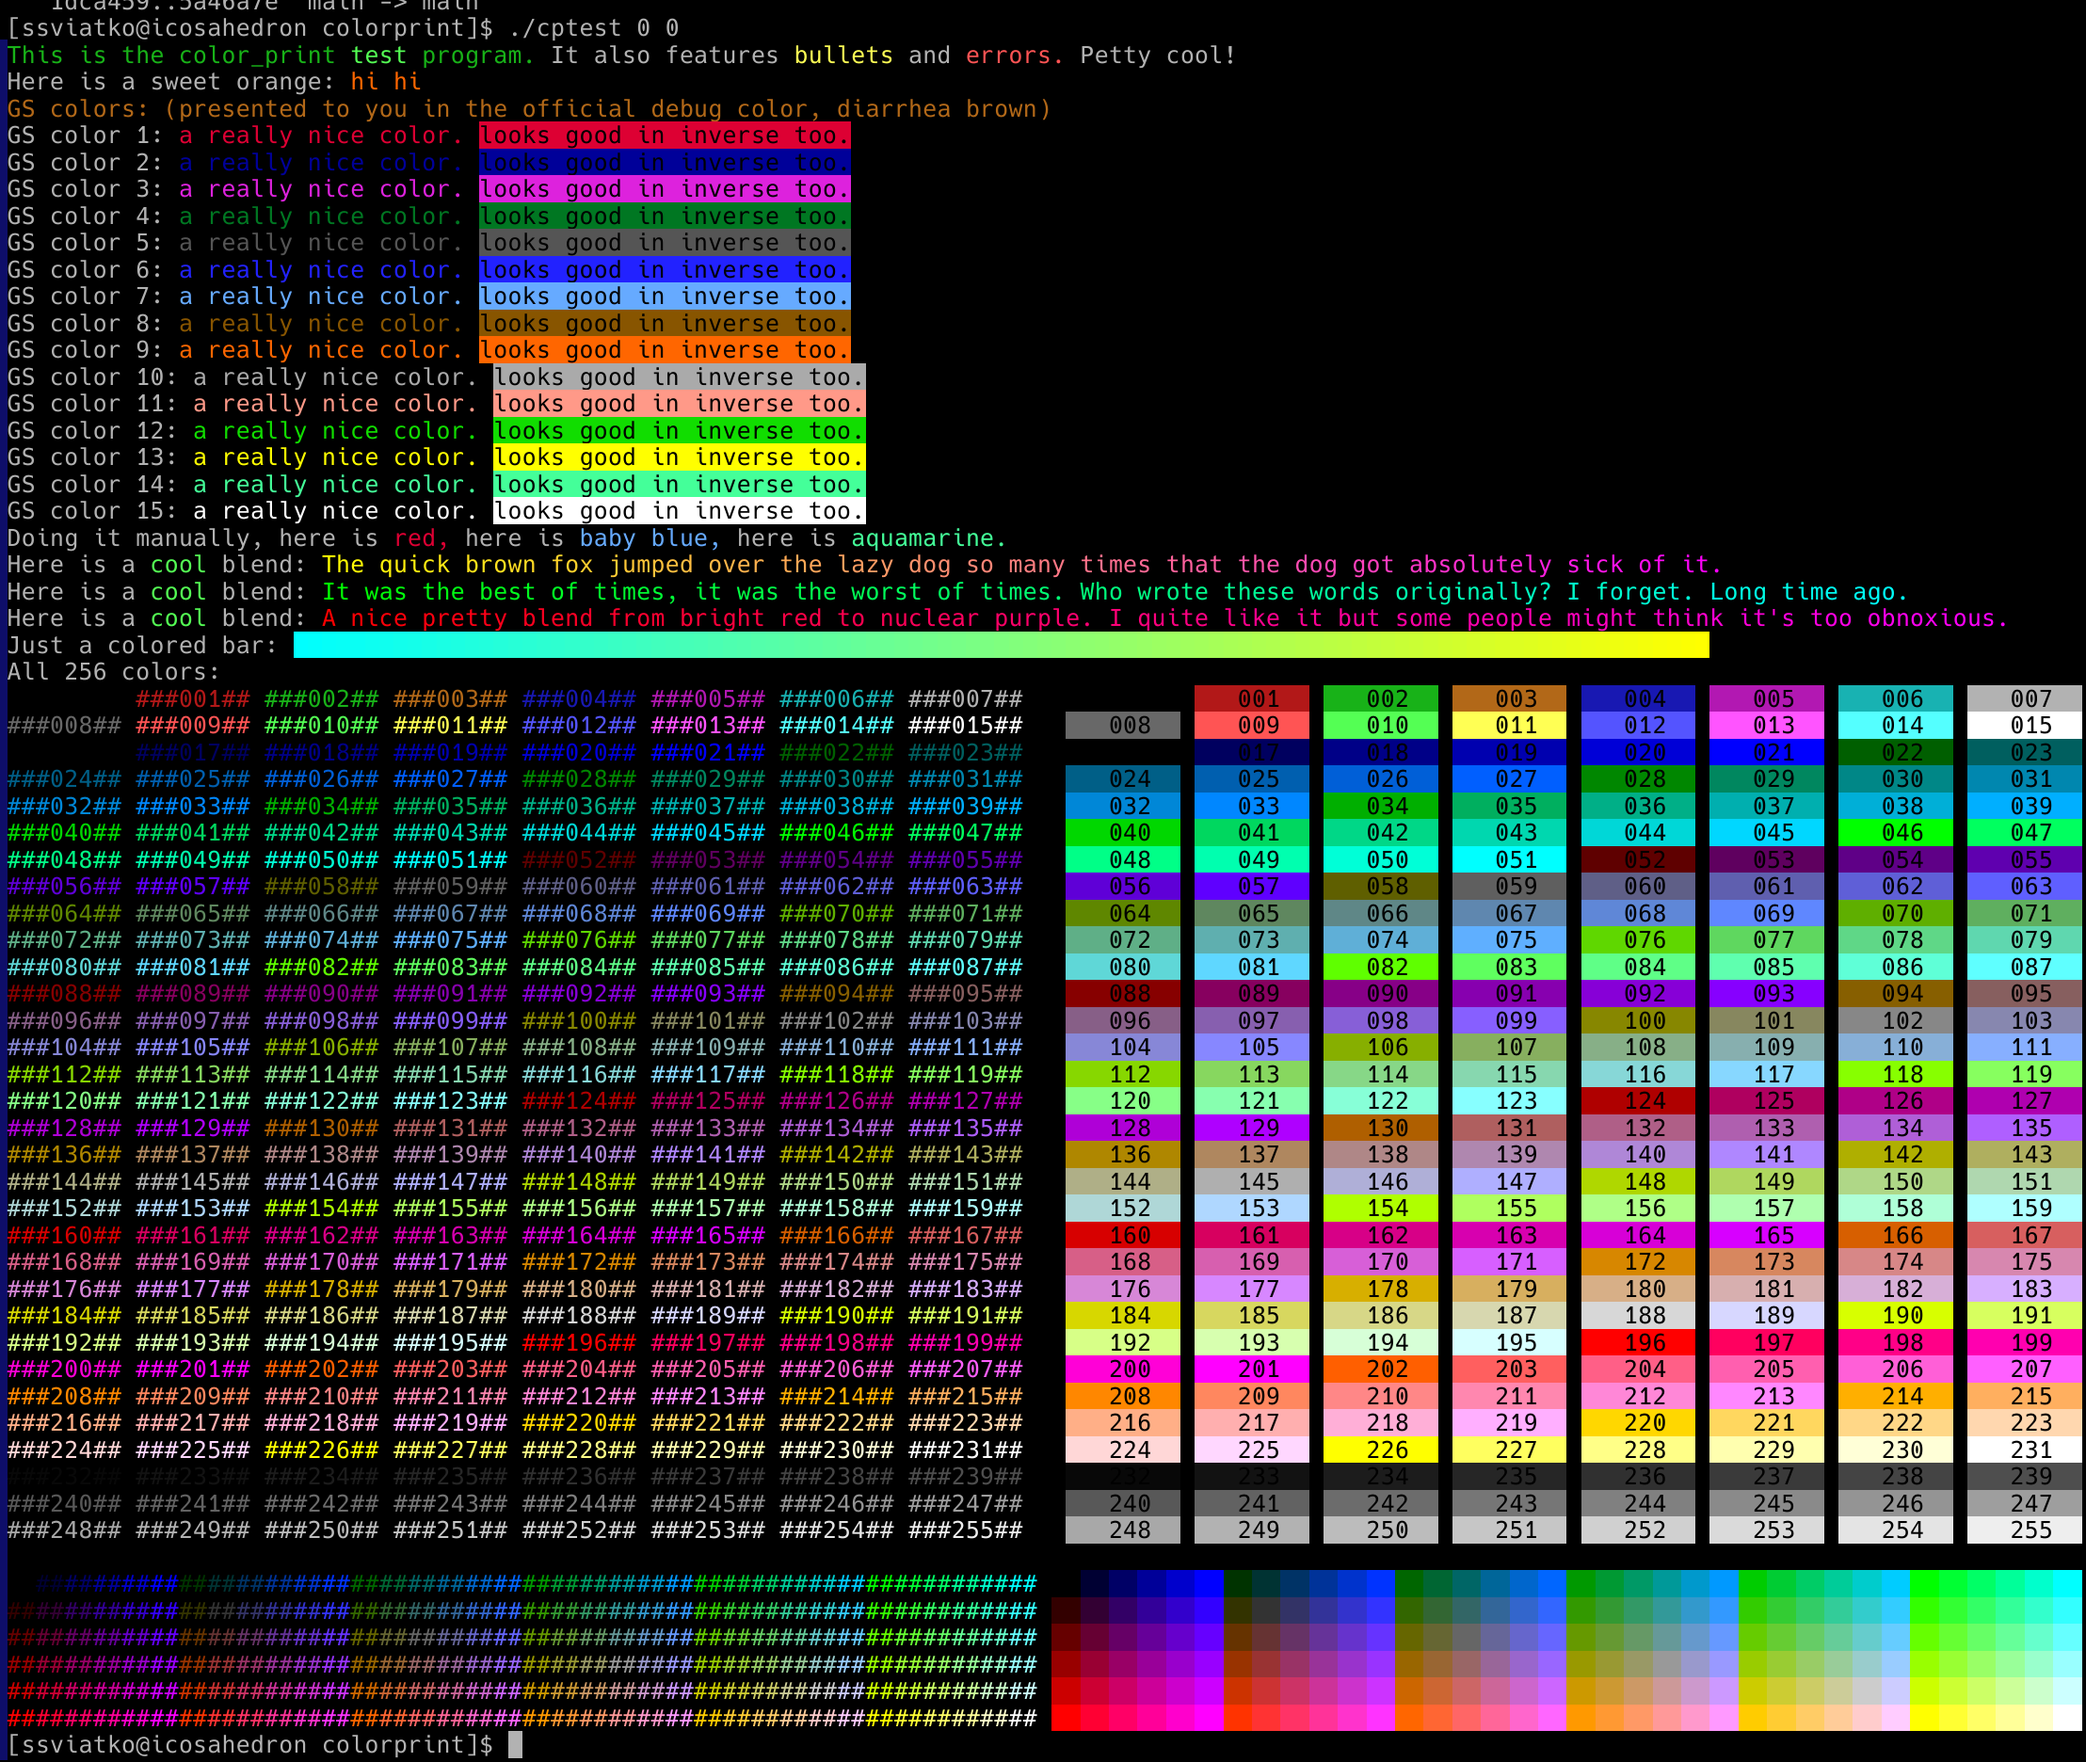
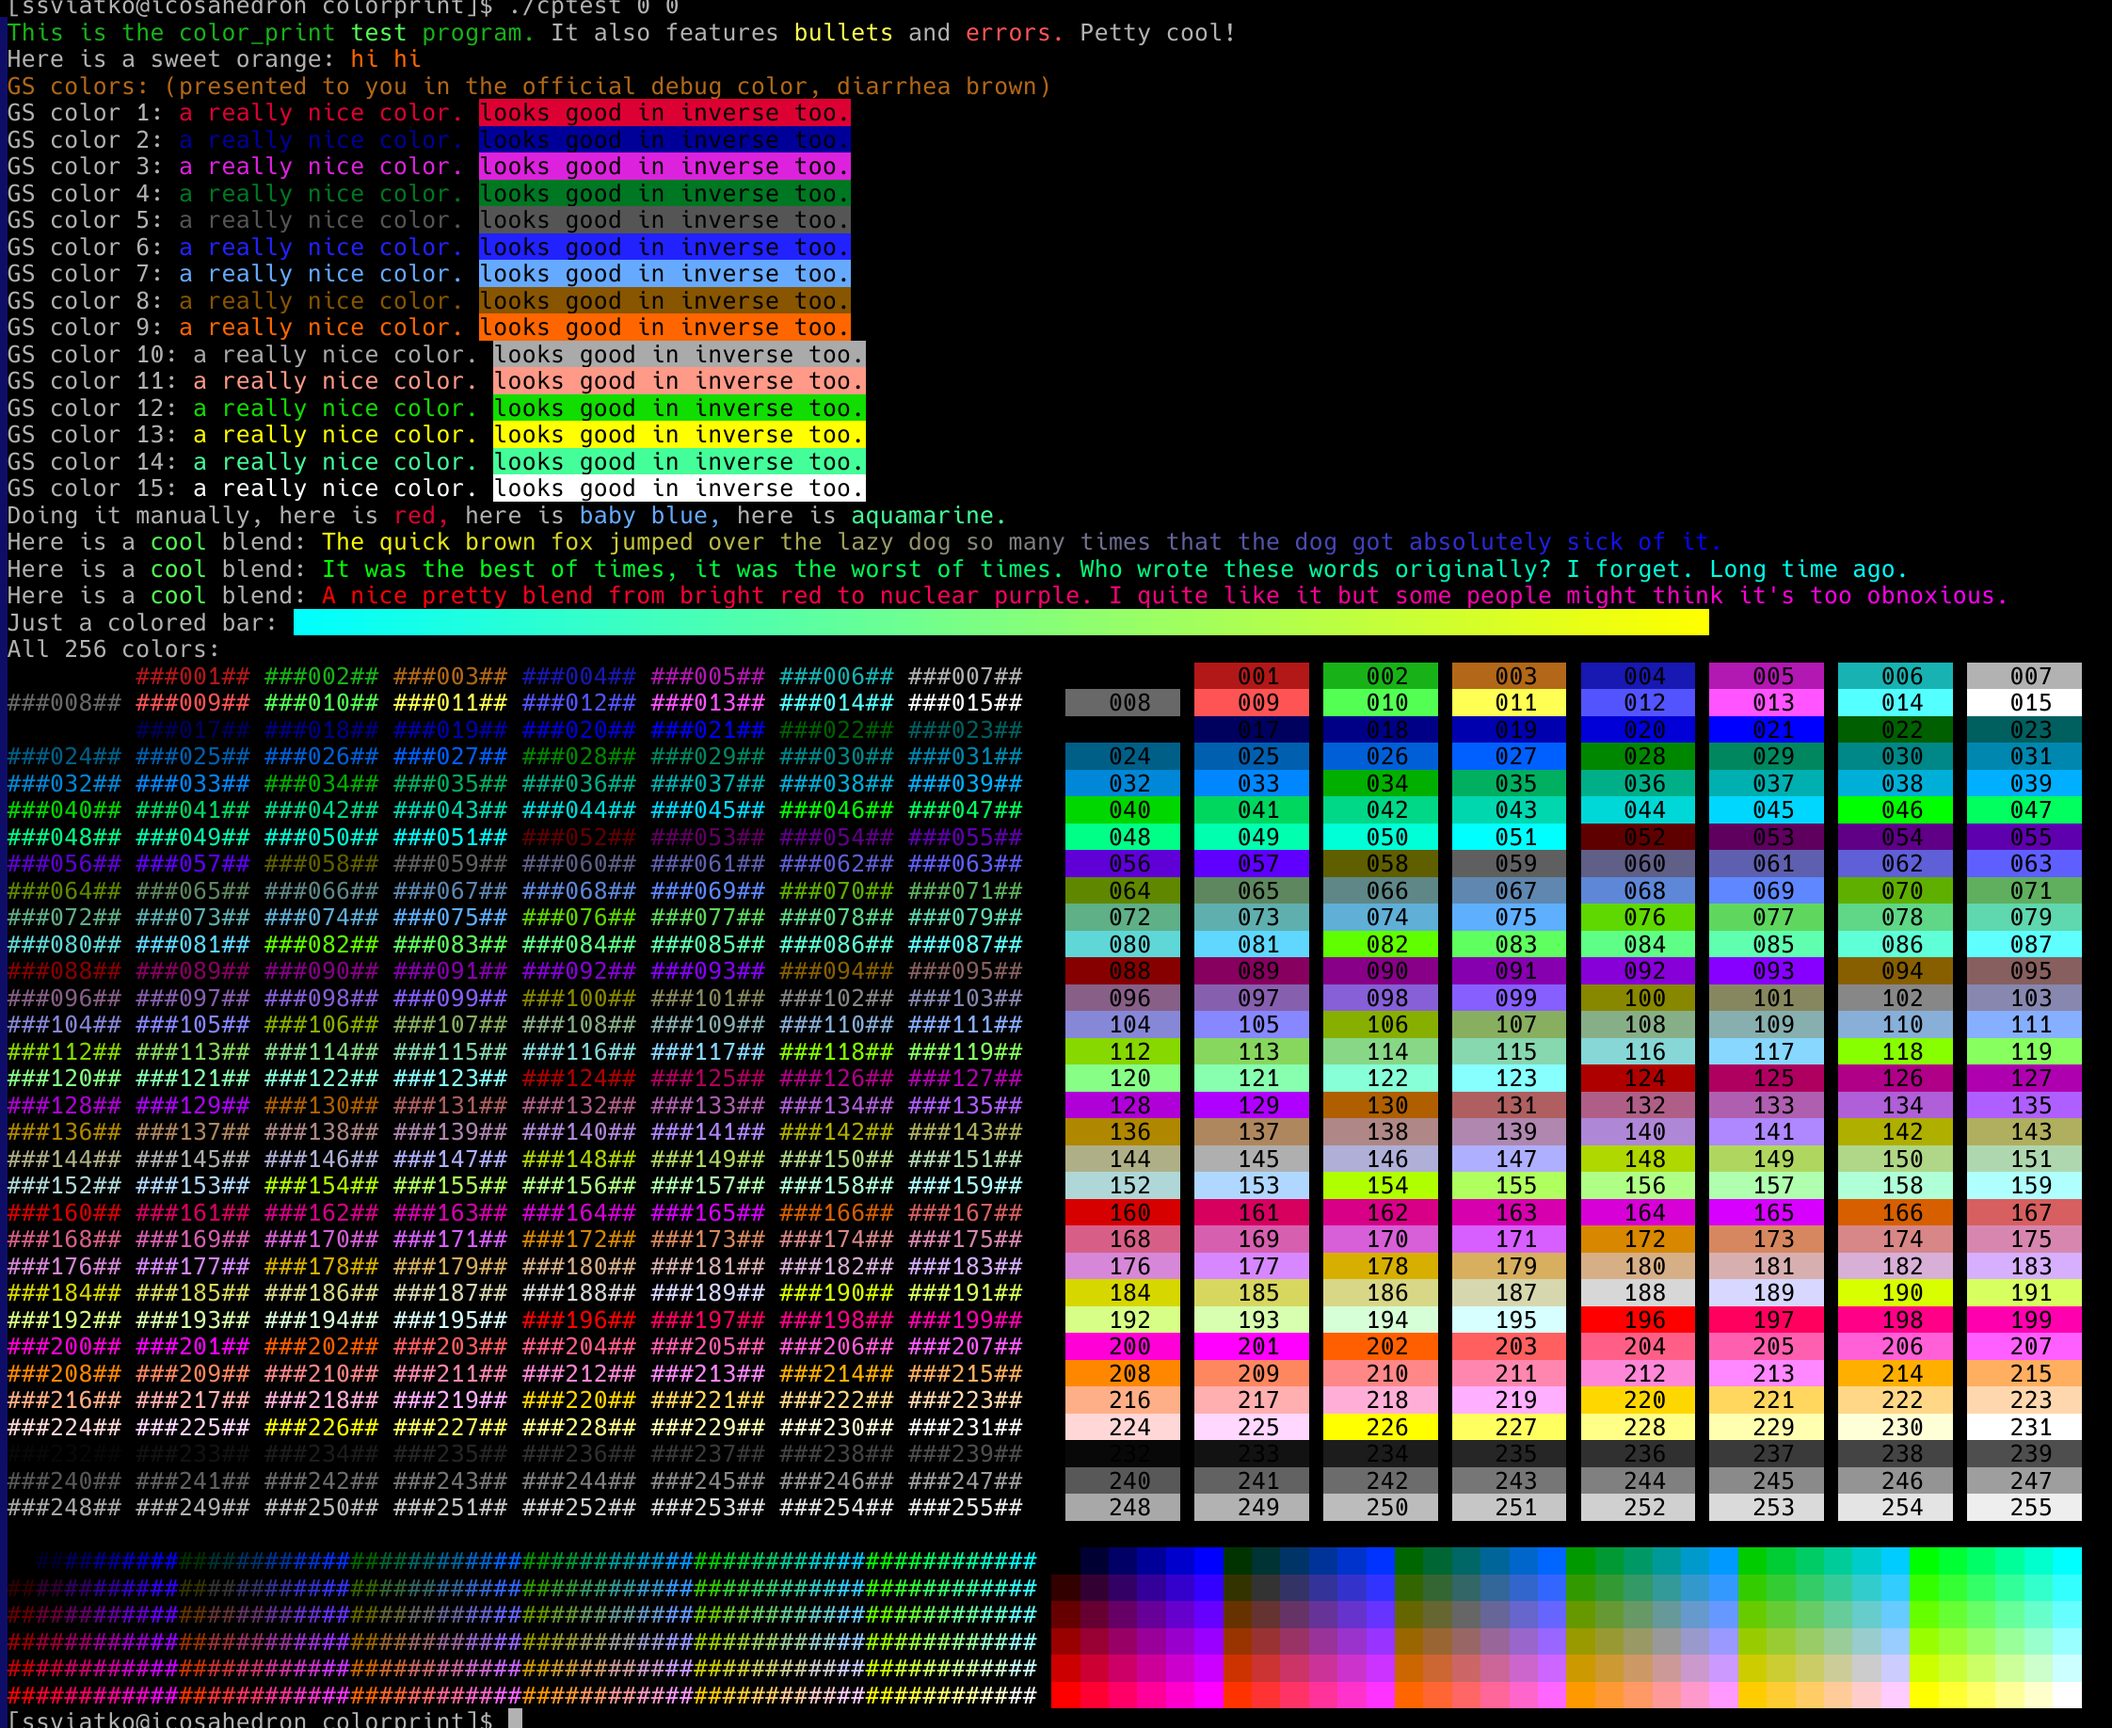
get rid of fmtbld

diff --git a/main.c b/main.c
@@ -19,21 +19,21 @@ int main(int argc, char **argv)
 	color_printf("Here is a sweet orange: *c[9]hi hi*d\n");
 	color_debug("GS colors: (presented to you in the official debug color, diarrhea brown)\n");
 	for (int i = 1; i <= 15; ++i) {
-		color_printf(fmtbld("GS color %d: *c[%d]a really nice color. *d*c[0]*g[%d]looks good in inverse too.*d\n", i, i, i));
+		color_printf("GS color %d: *c[%d]a really nice color. *d*c[0]*g[%d]looks good in inverse too.*d\n", i, i, i);
 	}
 	color_printf("*dDoing it manually, here is *c[1]red,*d here is *c[7]baby blue,*d here is *c[14]aquamarine.*d\n");
-	color_printf("Here is a *hcool*d blend: %s\n", color_rgb_blend("The quick brown fox jumped over the lazy dog so many times that the dog got absolutely sick of it.", 255, 255, 0, 255, 0, 255, 0));
+	color_printf("Here is a *hcool*d blend: %s\n", color_rgb_blend("The quick brown fox jumped over the lazy dog so many times that the dog got absolutely sick of it.", 255, 255, 0, 0, 0, 255, 0));
 	color_printf("Here is a *hcool*d blend: %s\n", color_rgb_blend("It was the best of times, it was the worst of times. Who wrote these words originally? I forget. Long time ago.", 0, 255, 0, 0, 255, 255, 0));
 	color_printf("Here is a *hcool*d blend: %s\n", color_rgb_blend("A nice pretty blend from bright red to nuclear purple. I quite like it but some people might think it's too obnoxious.", 255, 0, 0, 255, 0, 255, 0));
 	color_printf("Just a colored bar: %s\n", color_rgb_blend("                                                                                                   ", 0, 255, 255, 255, 255, 0, 1));
 	color_printf("All 256 colors:\n");
 	for (int i = 0; i < 32; ++i) {
 		for (int j = 0; j < 8; ++j) {
-			color_printf(fmtbld("*2[%d]###%03d##*d ", (i * 8) + j, (i * 8) + j));
+			color_printf("*2[%d]###%03d##*d ", (i * 8) + j, (i * 8) + j);
 		}
 		printf("  ");
 		for (int j = 0; j < 8; ++j) {
-			color_printf(fmtbld("*2[0]*3[%d]   %03d  *d ", (i * 8) + j, (i * 8) + j));
+			color_printf("*2[0]*3[%d]   %03d  *d ", (i * 8) + j, (i * 8) + j);
 		}
 		printf("\n");
 	}
@@ -41,13 +41,13 @@ int main(int argc, char **argv)
 	for (unsigned int r = 0; r <= 0xff; r += 51) {
 		for (unsigned int g = 0; g <= 0xff; g += 51) {
 			for (unsigned int b = 0; b <= 0xff; b += 51) {
-				color_printf(fmtbld("*5[%d,%d,%d]##*d", r, g, b));
+				color_printf("*5[%d,%d,%d]##*d", r, g, b);
 			}
 		}
 		printf(" ");
 		for (unsigned int g = 0; g <= 0xff; g += 51) {
 			for (unsigned int b = 0; b <= 0xff; b += 51) {
-				color_printf(fmtbld("*6[%d,%d,%d]  *d", r, g, b));
+				color_printf("*6[%d,%d,%d]  *d", r, g, b);
 			}
 		}
 		printf("\n");

diff --git a/color_print.c b/color_print.c
@@ -242,27 +242,20 @@ char *color_256_bg(unsigned int a_color)
     return g_output;
 }
 
-char *fmtbld(const char *template_format, ...)
-{
-    g_output[0] = 0;
-    va_list args;
-    va_start(args, template_format);
-    vsprintf(g_output, template_format, args);
-    va_end(args);
-    return g_output;
-}
-
 void color_printf(const char *format, ...)
 {
-    char original_format[BUFFLEN];
-    char edited_format[BUFFLEN];
+    char original_format[BUFFLEN * 8];
+    char edited_format[BUFFLEN * 8];
     char c;
     size_t i = 0, j = 0;
     enum { COLLECT, FINDSTAR, PAREN_OPEN, PAREN_VALUE, PAREN_OPTION } state = COLLECT;
 
     // cache format string
     original_format[0] = 0;
-    strcpy(original_format, format);
+    va_list args;
+    va_start(args);
+    vsprintf(original_format, format, args);
+    va_end(args);
 
     while (i < strlen(original_format)) {
         c = original_format[i];
@@ -445,11 +438,7 @@ void color_printf(const char *format, ...)
         }
     }
     edited_format[j] = 0;
-
-    va_list args;
-    va_start(args);
-    vprintf(edited_format, args);
-    va_end(args);
+    printf(edited_format);
 }
 
 void color_err_printf(int a_strerror, const char *format, ...)

diff --git a/color_print.h b/color_print.h
@@ -106,7 +106,6 @@ char *color_rgb_bg      (uint8_t a_red, uint8_t a_green, uint8_t a_blue);
 char *color_rgb_blend   (const char *a_str, uint8_t a_begin_red, uint8_t a_begin_green, uint8_t a_begin_blue, uint8_t a_end_red, uint8_t a_end_green, uint8_t a_end_blue, int a_background);
 char *color_gs          (int a_color);
 char *color_gs_bg       (int a_color);
-char *fmtbld            (const char *format, ...);
 
 #ifdef __cplusplus
 }
